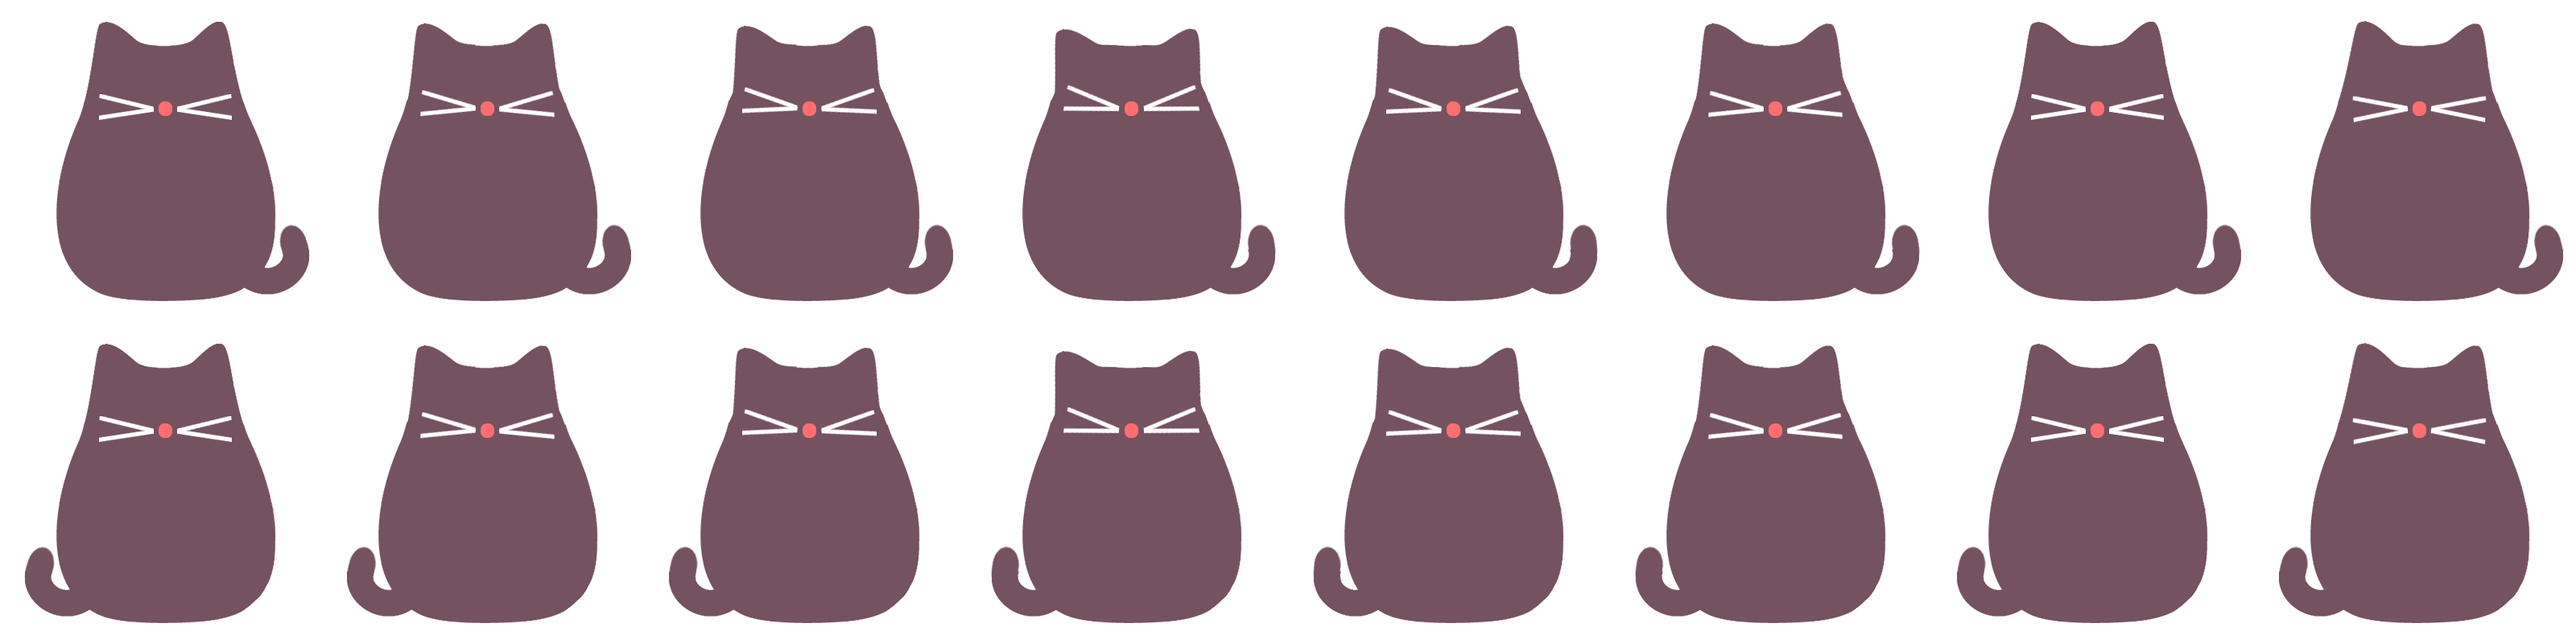
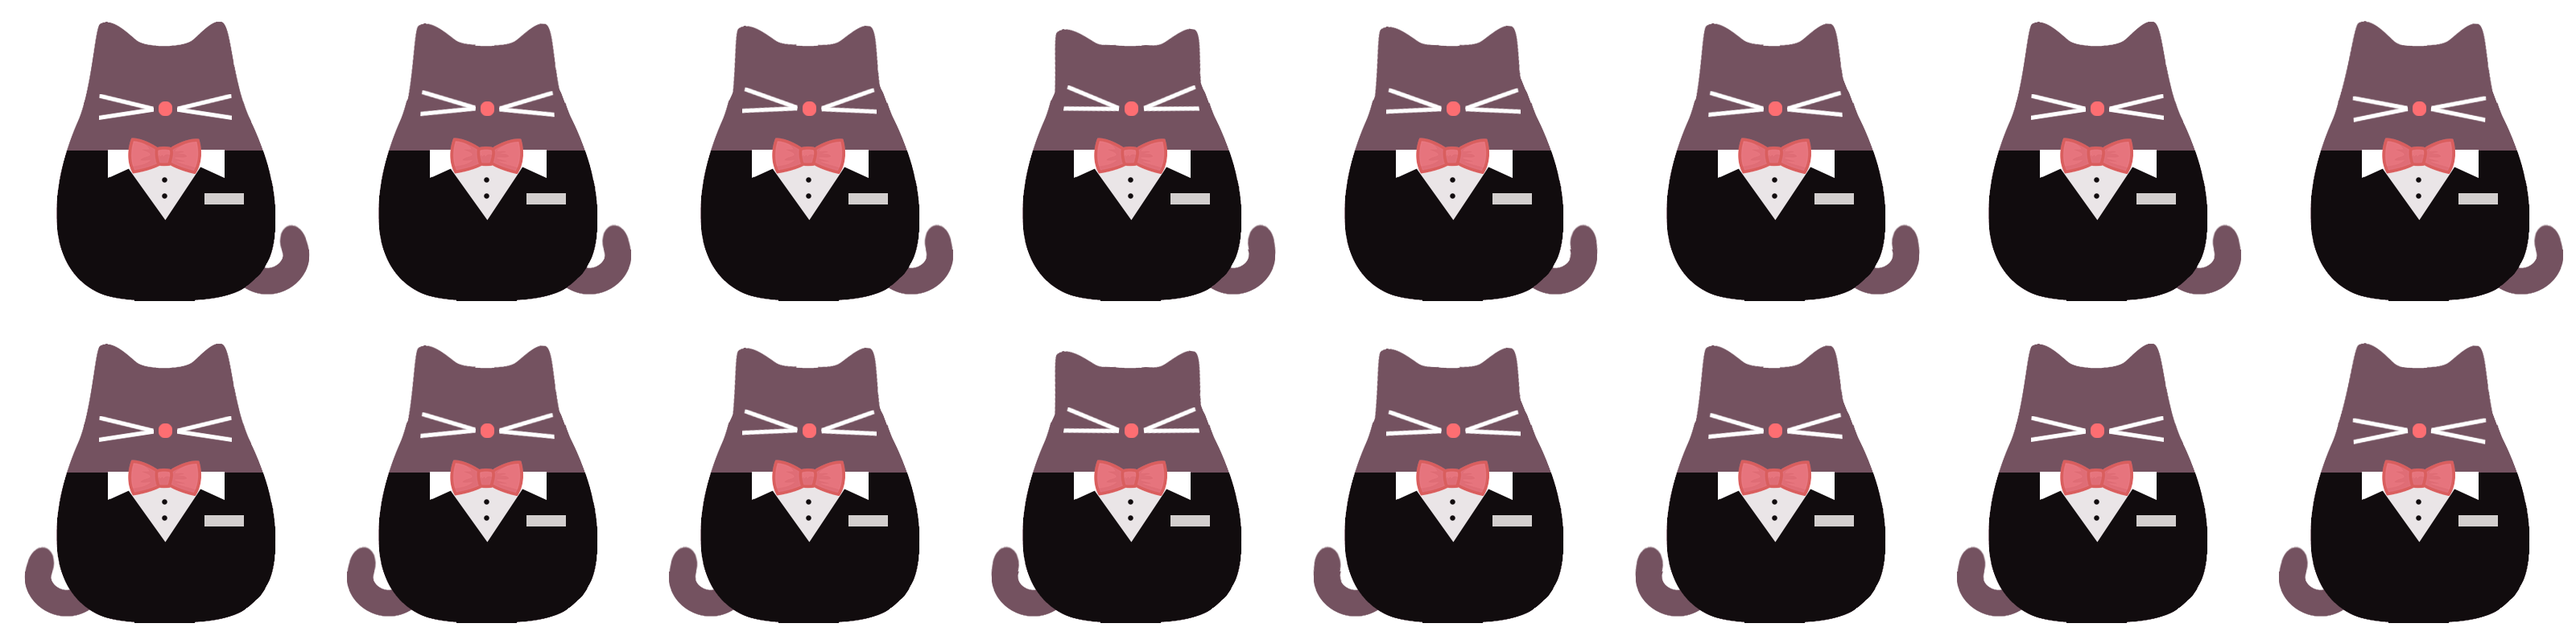
redesign waiter visual

Changed region(s): [[0.0, 0.7188, 1.0, 0.9688], [0.0, 0.2188, 1.0, 0.4688]]

diff --git a/js/main.js b/js/main.js
@@ -650,12 +650,8 @@ function pushToInteractivesElements(array) {
     array.forEach(element => interactiveElements.push(element))
 }
 
-
+// function startgame
 function startGame() {
-    waiter = new Waiter();
-    lobby = new Lobby();
-    servingHatch = new ServingHatch();
-
     // fill each component array
     var table1Coordinates = {x: 200, y: 510, chairX: 100+205, chairY: 410+10};
     var table2Coordinates = {x: W-200, y: 510, chairX: W-200-100-5, chairY: 410+10};
@@ -673,4 +669,32 @@ function startGame() {
     requestAnimationFrame(animLoop);
 }
 
-startGame();
+// function reset
+function reset() {
+    waiter = new Waiter();
+    lobby = new Lobby();
+    servingHatch = new ServingHatch();
+    tables.length = 0;
+    customers.length = 0;
+    numberOfCustomersCreated = 0;
+    dishes.length = 0;
+    numberOfDishesCreated = 0;
+    interactiveElements.length = 0;
+    waiterJournal.length = 0;
+    customersJournal.length = 0;
+    dishesJournal.length = 0;
+    timedEventsJournal.length = 0;
+    gameover = {status:false};
+    frames = 0;
+    moneyTarget = 120;
+    money = 0;
+    clearTimeout(customersFlux);
+}
+
+// listen to #star-button to launch the game
+const $start = document.getElementById("start-button");
+$start.onclick = function() {
+    $start.blur();
+    reset();
+    startGame();
+};

diff --git a/css/style.css b/css/style.css
@@ -21,13 +21,9 @@ body > div {flex:1;}
     width: 350px;
 }
 
-.arrows-img {
-    width: 150px;
-}
-
 body button {
     font-size: 30px;
-    background-color: #870007;
+    background-color: #ff6e6e;
     color: #fff;
     padding: 20px 40px;
     border: 0;
@@ -42,4 +38,8 @@ body button {
     display: block;
     margin:0 auto;
     height:100vh;
+    background-image: url("../img/prefilled-background.png");
+    background-position: center;
+    background-repeat: no-repeat;
+    background-size: cover;
 }

diff --git a/index.html b/index.html
@@ -7,7 +7,7 @@
 </head>
 <body>
   <div class="game-intro">
-    <img src="" alt="" class="logo-img">
+    <img src="./img/logo.png" alt="Kitty milk bar" class="logo-img">
     <br>
     <button id="start-button">StartGame</button>
     <p>Use the left button of your mouse to control the waiter!</p>
